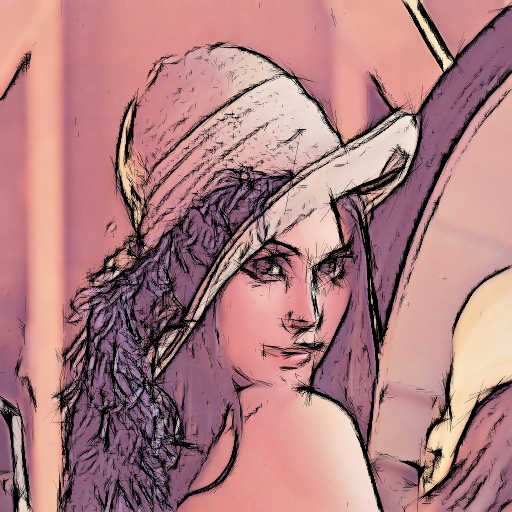
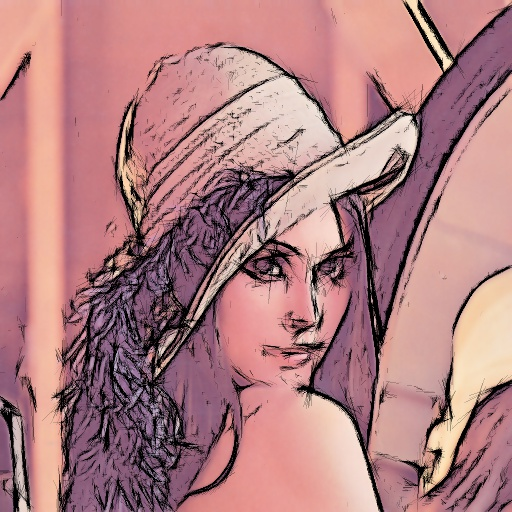
tensors estimation

diff --git a/scripts/tensors.py b/scripts/tensors.py
@@ -1,0 +1,37 @@
+import cv2 as cv
+import numpy as np
+import blend_modes
+import time
+
+# Parameters
+start_time = time.time()
+sigma = 1       # standard deviation >=0
+alpha=10
+# Read image
+img = cv.imread('./sources/lena.png',cv.IMREAD_COLOR)
+
+# Estimate the smoothed structure tensor field
+img_blur = cv.GaussianBlur(img,(5,5),alpha) # blur
+cv.imwrite('./output/tensors/img_blur.jpg', img_blur)
+img_sobel = cv.Sobel(img, cv.CV_64F, 1, 1, ksize=1) 
+cv.imwrite('./output/tensors/img_sobel.jpg', img_sobel)
+img_sobel_t=np.zeros((img.shape))
+cv.transpose(img_sobel,img_sobel_t)
+cv.imwrite('./output/tensors/img_sobel_t.jpg', img_sobel_t)
+
+img_sum=np.zeros((img.shape[0],img.shape[1]))
+for i in range(0,img.shape[2]) :
+    img_sum+=img_sobel[:,:,i]*img_sobel_t[:,:,i]
+
+img_smoothed=cv.GaussianBlur(img_sum,(5,5),sigma) 
+cv.imwrite('./output/tensors/img_smoothed.jpg', img_smoothed)
+
+# @TODO extract eigen values/vectors (lambda/theta)
+
+
+
+
+# Compute the stroke tensor field T of the input color image I
+
+
+print('time : '+str(round(time.time() - start_time))+' seconds')
